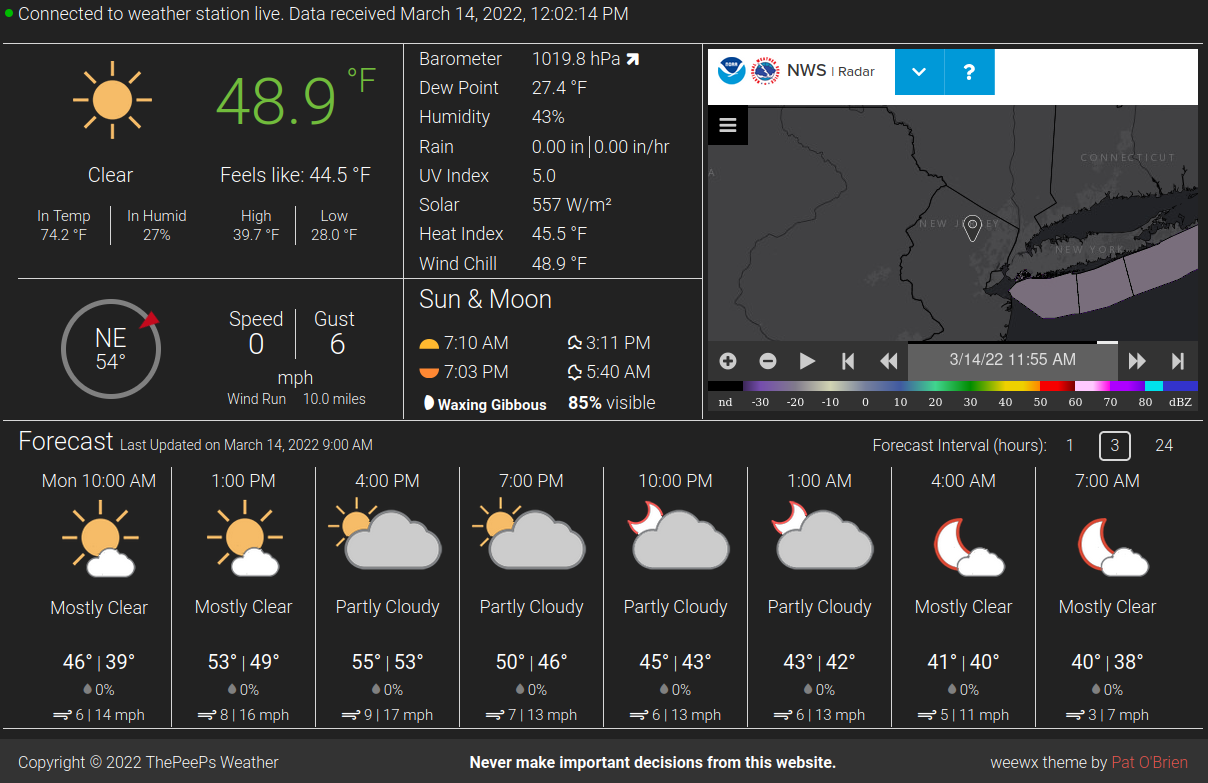
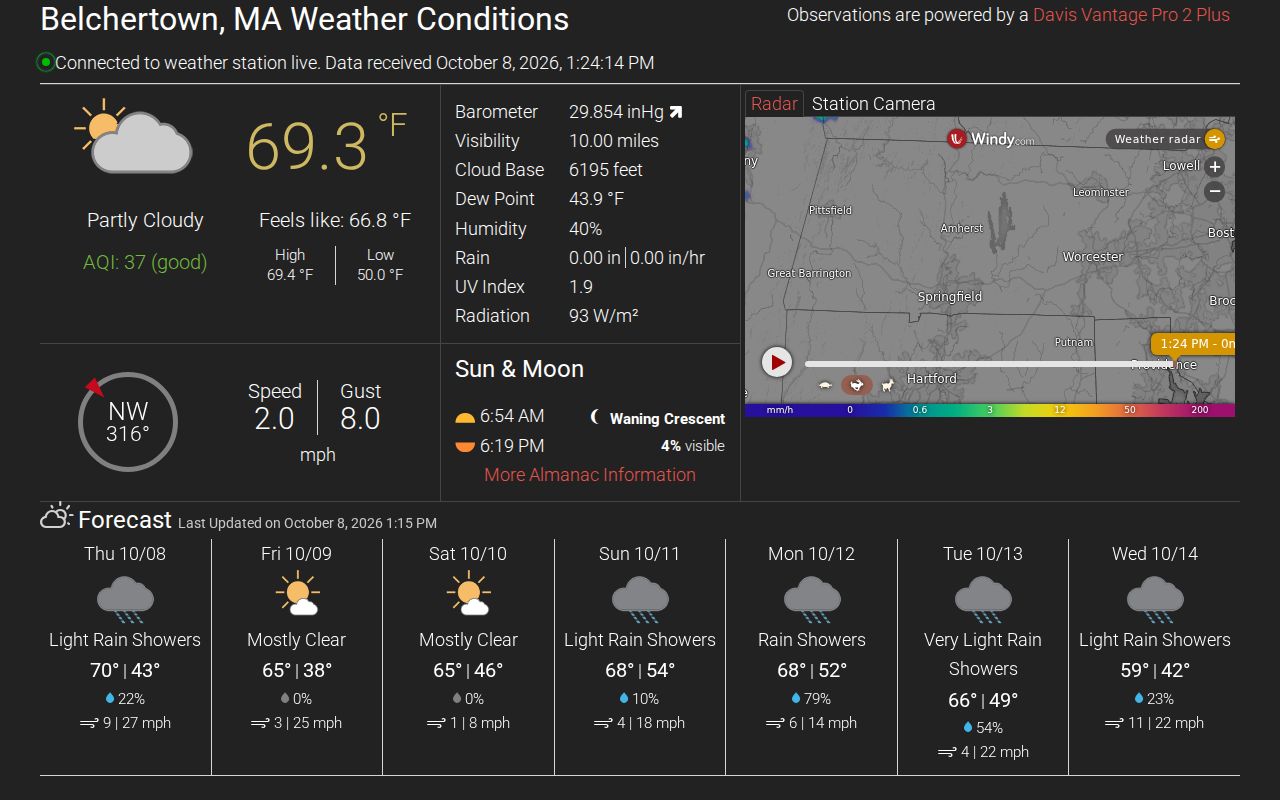
README: 3.0 screenshots
New home page in light and dark (desktop and phone), the chart builder
and the kiosk view, taken from a live 3.0.0 site. Image links are
relative paths instead of a pinned raw URL.

diff --git a/README.md b/README.md
@@ -12,7 +12,9 @@ A skin (website theme) for the [weewx weather software](https://weewx.com), mode
 * **Your nearest recent earthquake**, plus weather records for this year and all time, the all-time records broken this year, and how today's date has gone in every year since your station started.
 * Works on phones and tablets, and can be added to a phone's home screen like an app.
 
-![BelchertownWeather.com home page in light and dark mode](https://raw.githubusercontent.com/poblabs/weewx-belchertown/57618035bd6da988b7dc2d96c5ab04511d9d44a1/assets/light_dark_modes.jpg)
+![The home page in light and dark mode](assets/light_dark_modes.jpg)
+
+![The home page on a phone, light and dark](assets/phone_light_dark.jpg)
 
 > [!IMPORTANT]
 > **Belchertown 3 requires weewx 5.0 or newer.** On weewx 3 or 4, use [Belchertown 1.3.1](https://github.com/poblabs/weewx-belchertown/releases/tag/weewx-belchertown-1.3.1).
@@ -384,6 +386,8 @@ When weewx saves a new archive record, the page also reloads its forecast, earth
 You control which charts appear, what they show and over what time range, in a `graphs.conf` file. The skin ships with five groups of charts to start from (home page, today, this week, this month, this year). Everything you can do is on the [chart wiki page](https://github.com/poblabs/weewx-belchertown/wiki/Belchertown-Charts-Documentation).
 
 ### Chart builder
+
+![The chart builder: settings on the left, the chart drawn from your data on the right, and the graphs.conf text to copy below](assets/chart_builder.png)
 
 The easiest way to add a chart is the chart builder: a page on your own site where you pick what to show and see the chart drawn from your station's data as you go. It gives you the text to paste into `graphs.conf`.
 
